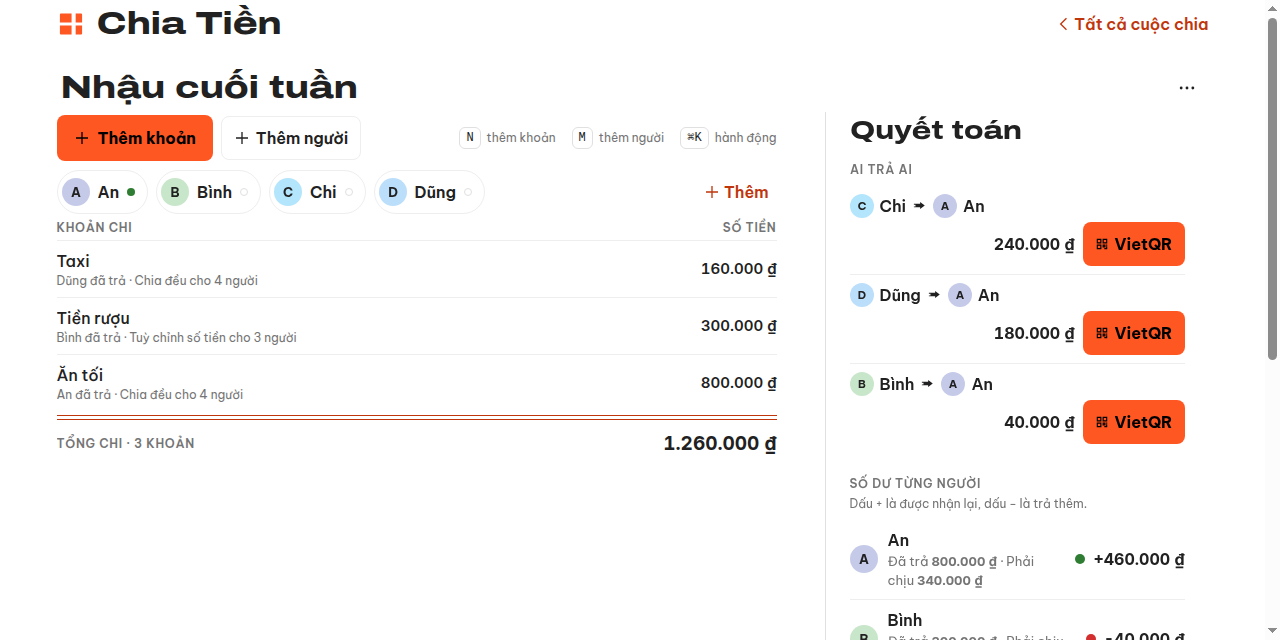
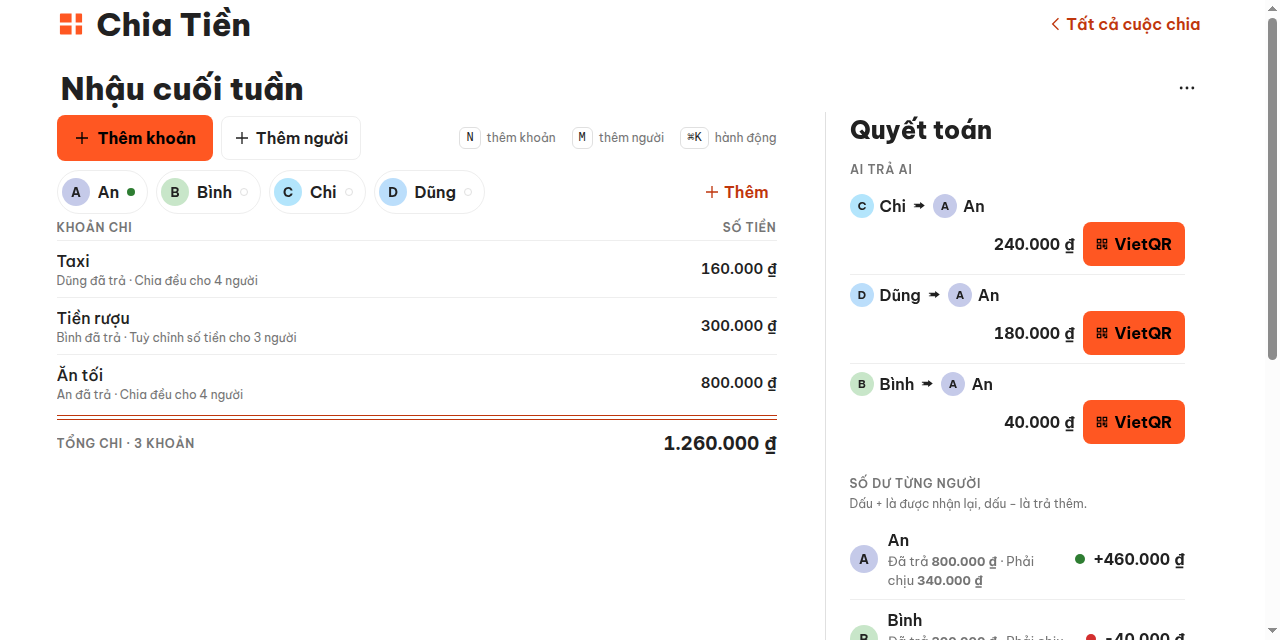
docs: screenshot pack re-shot on live v1.7.2 (human hero, BVP wordmark)

diff --git a/README.md b/README.md
@@ -17,7 +17,7 @@ Repository: https://github.com/changvn2002/chiatien
 <p align="center">
   <img src="docs/screenshots/chiatien-desktop.png" alt="Chia Tiền — cuộc chia “Nhậu cuối tuần” đã quyết toán xong: sổ trực tiếp hiện số dư từng người, cột quyết toán bên phải chốt đúng 3 lần chuyển cần thiết" width="900">
 </p>
-<p align="center"><em>Một cuộc chia đã chốt xong trên không gian làm việc: 4 người, 3 khoản chi, tổng 1.260.000 ₫ — sổ trực tiếp hiện số dư từng người, cột quyết toán bên phải rút gọn thành đúng 3 lần chuyển (Chi → An 240.000 ₫, Dũng → An 180.000 ₫, Bình → An 40.000 ₫). Các lần chuyển tới An có VietQR vì tài khoản của An đã lưu trên chính máy này. Ảnh chụp thật từ bản production v1.4.0 đang chạy.</em></p>
+<p align="center"><em>Một cuộc chia đã chốt xong trên không gian làm việc: 4 người, 3 khoản chi, tổng 1.260.000 ₫ — sổ trực tiếp hiện số dư từng người, cột quyết toán bên phải rút gọn thành đúng 3 lần chuyển (Chi → An 240.000 ₫, Dũng → An 180.000 ₫, Bình → An 40.000 ₫). Các lần chuyển tới An có VietQR vì tài khoản của An đã lưu trên chính máy này. Ảnh chụp thật từ bản production v1.7.2 đang chạy.</em></p>
 
 **Tóm tắt:** Đi chơi chung, ăn nhậu, ở trọ chung… rồi đến màn "để tính sau" là hay
 cãi nhau. **Chia Tiền** ghi lại ai đã trả khoản nào, tự chia cho nhóm, triệt tiêu nợ

diff --git a/docs/screenshots/SHOT-LIST.md b/docs/screenshots/SHOT-LIST.md
@@ -1,12 +1,15 @@
 # SHOT-LIST — screenshot pack chiatien (studio-catalog/chiatien/)
 
-> **Trạng thái (2026-10-24): ĐÃ CHỤP LẠI trên bản live v1.7.0 (REDESIGN-V4,
+> **Trạng thái (2026-10-24): ĐÃ CHỤP LẠI trên bản live v1.7.2 (REDESIGN-V4,
 > Neutral-First, seed Material Deep Orange 500 #FF5722, canvas trắng
-> trung tính).** Pack trước chụp ở v1.6.0 (REDESIGN-V3, #A5482F).
-> Xem SHOT-V4-STATE.md ở repo root để biết sha256 mới + kết quả R2.
-> Lưu ý V4: ảnh mobile 390px ghi lại trung thực hiện tượng wordmark
-> header quấn 2 dòng, dòng đầu cắt ở mép trên (phát hiện M-HDR-1 trong
-> SHOT-V4-STATE.md — lỗi phía app, không phải lỗi chụp).
+> trung tính; v1.7.1 đổi chữ hiển thị về Be Vietnam Pro + hero hình
+> người, v1.7.2 sửa nhãn nút back quấn 2 dòng — M-HDR-1 đã đóng).**
+> Pack trước chụp ở v1.7.0. Xem SHOT-V172-STATE.md ở repo root để
+> biết sha256 mới + kết quả R2.
+> Lưu ý V4: pack v1.7.0 từng ghi lại hiện tượng wordmark header quấn
+> 2 dòng, dòng đầu cắt ở mép trên (phát hiện M-HDR-1). Pack v1.7.2 này
+> chụp sau khi M-HDR-1 đã đóng: wordmark 1 dòng không cắt, hero là
+> hình người ăn chung (hết hình mạch điện của v1.7.0).
 > File này ghi lại hợp đồng chụp (tên file giữ nguyên như pack cũ để catalog
 > không gãy) và các TRẠNG THÁI nội dung phải đúng sự thật khi chụp — đặc
 > biệt: pack v1 (HEAD 044b960) từng bị grader bắt lỗi DOC-03/DATA-03 vì
